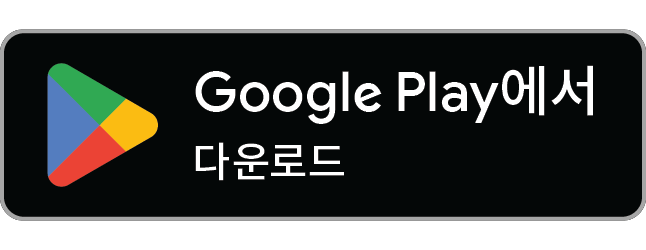
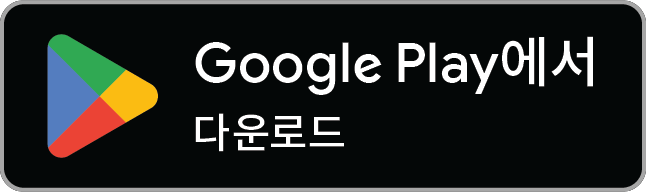
다운로드 배지 크기 통일 — Google 배지 여백을 잘라 두 버튼을 같은 높이로
Claude-Session: https://claude.ai/code/session_017HUExyZ58Y2Jv744zBtPxR

diff --git a/ko/index.html b/ko/index.html
@@ -28,7 +28,7 @@
   <link rel="alternate" hreflang="x-default" href="https://mauvelabsinc.com/">
   <link rel="preload" href="../assets/fraunces.woff2" as="font" type="font/woff2" crossorigin>
   <link rel="stylesheet" href="https://cdn.jsdelivr.net/gh/orioncactus/pretendard@v1.3.9/dist/web/variable/pretendardvariable-dynamic-subset.min.css">
-  <link rel="stylesheet" href="../assets/site-v2.css?v=14">
+  <link rel="stylesheet" href="../assets/site-v2.css?v=15">
 </head>
 <body>
 <header class="nav wrap">
@@ -48,8 +48,8 @@
       <h1>있는 그대로의 마음을 <em>살며시</em> 담는 작은 일기.</h1>
       <p class="lede">몽글이를 눌러 기분을 고르면 끝이에요. 쓰고 싶은 날엔 짧은 글이나 사진을 더해 보세요. 광고도, 부담도 없어요.</p>
       <div class="badges">
-        <a href="https://apps.apple.com/app/id6814691795" aria-label="App Store에서 다운로드"><img src="../img/ko/badge-app-store.svg" alt="App Store에서 다운로드" height="48"></a>
-        <a href="https://play.google.com/store/apps/details?id=com.mauvelabs.maeumlog" aria-label="Google Play에서 다운로드하기" class="gp"><img src="../img/ko/badge-google-play.png" alt="Google Play에서 다운로드하기" height="70"></a>
+        <a href="https://apps.apple.com/app/id6814691795" aria-label="App Store에서 다운로드"><img src="../img/ko/badge-app-store.svg" alt="App Store에서 다운로드" height="50"></a>
+        <a href="https://play.google.com/store/apps/details?id=com.mauvelabs.maeumlog" aria-label="Google Play에서 다운로드하기" class="gp"><img src="../img/ko/badge-google-play.png" alt="Google Play에서 다운로드하기" height="50"></a>
       </div>
       <p class="fine">무료로 시작 · 아이폰과 안드로이드</p>
     </div>
@@ -144,8 +144,8 @@
     <span class="mongle cta-mongle" data-anim="mongle-normal-idle"><img src="../img/mongle-normal.webp" alt="" width="180"></span>
     <h2>오늘은 나에게 조금 더 다정하게.</h2>
     <div class="badges center">
-      <a href="https://apps.apple.com/app/id6814691795" aria-label="App Store에서 다운로드"><img src="../img/ko/badge-app-store.svg" alt="App Store에서 다운로드" height="48"></a>
-      <a href="https://play.google.com/store/apps/details?id=com.mauvelabs.maeumlog" aria-label="Google Play에서 다운로드하기" class="gp"><img src="../img/ko/badge-google-play.png" alt="Google Play에서 다운로드하기" height="70"></a>
+      <a href="https://apps.apple.com/app/id6814691795" aria-label="App Store에서 다운로드"><img src="../img/ko/badge-app-store.svg" alt="App Store에서 다운로드" height="50"></a>
+      <a href="https://play.google.com/store/apps/details?id=com.mauvelabs.maeumlog" aria-label="Google Play에서 다운로드하기" class="gp"><img src="../img/ko/badge-google-play.png" alt="Google Play에서 다운로드하기" height="50"></a>
     </div>
   </section>
 </main>
@@ -165,7 +165,7 @@
   </div>
 <dl class="biz"><dt>상호</dt><dd>모브랩스(Mauve Labs)</dd><dt>대표자</dt><dd>주창환</dd><dt>사업자등록번호</dt><dd>485-21-02219</dd><dt>통신판매업신고번호</dt><dd>제2026-서울금천-1495호</dd><dt>주소</dt><dd>서울특별시 금천구 범안로12길 29-20, A동 301호(독산동)</dd><dt>이메일</dt><dd>mauvelabs@mauvelabsinc.com</dd></dl><p class="legal">© 2026 모브랩스</p>
 </footer>
-<script src="../assets/scroll.js?v=14"></script>
+<script src="../assets/scroll.js?v=15"></script>
 <script src="../assets/lottie_light.min.js"></script>
 <script>
 /* 몽글이 애니메이션 — 앱과 같은 Lottie(maeumlog-rn assets/animations)를 웹용으로 줄인 것.
@@ -179,7 +179,7 @@
   document.querySelectorAll('.mongle[data-anim]').forEach(function (el, i) {
     var box = document.createElement('span'); box.className = 'mongle-anim'; el.appendChild(box);
     var a = lottie.loadAnimation({ container: box, renderer: 'svg', loop: true, autoplay: !io,
-      path: '../anim/' + el.dataset.anim + '.json?v=14', rendererSettings: { preserveAspectRatio: 'xMidYMid meet' } });
+      path: '../anim/' + el.dataset.anim + '.json?v=15', rendererSettings: { preserveAspectRatio: 'xMidYMid meet' } });
     a.addEventListener('DOMLoaded', function () {
       a.goToAndStop((i * 17) % a.totalFrames, true); /* 같은 몽글이가 똑같이 움직이지 않게 시작 프레임을 엇갈린다 */
       el.classList.add('is-anim'); el._anim = a; if (io) io.observe(el); else a.play();

diff --git a/index.html b/index.html
@@ -28,7 +28,7 @@
   <link rel="alternate" hreflang="x-default" href="https://mauvelabsinc.com/">
   <link rel="preload" href="assets/fraunces.woff2" as="font" type="font/woff2" crossorigin>
   <link rel="stylesheet" href="https://cdn.jsdelivr.net/gh/orioncactus/pretendard@v1.3.9/dist/web/variable/pretendardvariable-dynamic-subset.min.css">
-  <link rel="stylesheet" href="assets/site-v2.css?v=14">
+  <link rel="stylesheet" href="assets/site-v2.css?v=15">
 </head>
 <body>
 <header class="nav wrap">
@@ -48,8 +48,8 @@
       <h1>A soft little diary for how you <em>really</em> feel.</h1>
       <p class="lede">Tap Mongle, pick a mood, and you're done. Add a few words or a photo when you feel like it. No ads, no pressure.</p>
       <div class="badges">
-        <a href="https://apps.apple.com/app/id6814691795" aria-label="Download on the App Store"><img src="img/badge-app-store.svg" alt="Download on the App Store" height="48"></a>
-        <a href="https://play.google.com/store/apps/details?id=com.mauvelabs.maeumlog" aria-label="Get it on Google Play" class="gp"><img src="img/badge-google-play.png" alt="Get it on Google Play" height="70"></a>
+        <a href="https://apps.apple.com/app/id6814691795" aria-label="Download on the App Store"><img src="img/badge-app-store.svg" alt="Download on the App Store" height="50"></a>
+        <a href="https://play.google.com/store/apps/details?id=com.mauvelabs.maeumlog" aria-label="Get it on Google Play" class="gp"><img src="img/badge-google-play.png" alt="Get it on Google Play" height="50"></a>
       </div>
       <p class="fine">Free to start · iPhone and Android</p>
     </div>
@@ -144,8 +144,8 @@
     <span class="mongle cta-mongle" data-anim="mongle-normal-idle"><img src="img/mongle-normal.webp" alt="" width="180"></span>
     <h2>Be gentle with yourself today.</h2>
     <div class="badges center">
-      <a href="https://apps.apple.com/app/id6814691795" aria-label="Download on the App Store"><img src="img/badge-app-store.svg" alt="Download on the App Store" height="48"></a>
-      <a href="https://play.google.com/store/apps/details?id=com.mauvelabs.maeumlog" aria-label="Get it on Google Play" class="gp"><img src="img/badge-google-play.png" alt="Get it on Google Play" height="70"></a>
+      <a href="https://apps.apple.com/app/id6814691795" aria-label="Download on the App Store"><img src="img/badge-app-store.svg" alt="Download on the App Store" height="50"></a>
+      <a href="https://play.google.com/store/apps/details?id=com.mauvelabs.maeumlog" aria-label="Get it on Google Play" class="gp"><img src="img/badge-google-play.png" alt="Get it on Google Play" height="50"></a>
     </div>
   </section>
 </main>
@@ -165,7 +165,7 @@
   </div>
 <p class="legal">© 2026 Mauve Labs · mauvelabs@mauvelabsinc.com · Seoul, Republic of Korea</p>
 </footer>
-<script src="assets/scroll.js?v=14"></script>
+<script src="assets/scroll.js?v=15"></script>
 <script src="assets/lottie_light.min.js"></script>
 <script>
 /* 몽글이 애니메이션 — 앱과 같은 Lottie(maeumlog-rn assets/animations)를 웹용으로 줄인 것.
@@ -179,7 +179,7 @@
   document.querySelectorAll('.mongle[data-anim]').forEach(function (el, i) {
     var box = document.createElement('span'); box.className = 'mongle-anim'; el.appendChild(box);
     var a = lottie.loadAnimation({ container: box, renderer: 'svg', loop: true, autoplay: !io,
-      path: 'anim/' + el.dataset.anim + '.json?v=14', rendererSettings: { preserveAspectRatio: 'xMidYMid meet' } });
+      path: 'anim/' + el.dataset.anim + '.json?v=15', rendererSettings: { preserveAspectRatio: 'xMidYMid meet' } });
     a.addEventListener('DOMLoaded', function () {
       a.goToAndStop((i * 17) % a.totalFrames, true); /* 같은 몽글이가 똑같이 움직이지 않게 시작 프레임을 엇갈린다 */
       el.classList.add('is-anim'); el._anim = a; if (io) io.observe(el); else a.play();

diff --git a/templates/page.html b/templates/page.html
@@ -46,8 +46,8 @@
       <h1>{{hero_title}}</h1>
       <p class="lede">{{hero_lede}}</p>
       <div class="badges">
-        <a href="https://apps.apple.com/app/id6814691795" aria-label="{{badge_apple_alt}}"><img src="{{b}}{{badge_dir}}badge-app-store.svg" alt="{{badge_apple_alt}}" height="48"></a>
-        <a href="https://play.google.com/store/apps/details?id=com.mauvelabs.maeumlog" aria-label="{{badge_google_alt}}" class="gp"><img src="{{b}}{{badge_dir}}badge-google-play.png" alt="{{badge_google_alt}}" height="70"></a>
+        <a href="https://apps.apple.com/app/id6814691795" aria-label="{{badge_apple_alt}}"><img src="{{b}}{{badge_dir}}badge-app-store.svg" alt="{{badge_apple_alt}}" height="50"></a>
+        <a href="https://play.google.com/store/apps/details?id=com.mauvelabs.maeumlog" aria-label="{{badge_google_alt}}" class="gp"><img src="{{b}}{{badge_dir}}badge-google-play.png" alt="{{badge_google_alt}}" height="50"></a>
       </div>
       <p class="fine">{{hero_fine}}</p>
     </div>
@@ -142,8 +142,8 @@
     <span class="mongle cta-mongle" data-anim="mongle-normal-idle"><img src="{{b}}img/mongle-normal.webp" alt="" width="180"></span>
     <h2>{{cta_title}}</h2>
     <div class="badges center">
-      <a href="https://apps.apple.com/app/id6814691795" aria-label="{{badge_apple_alt}}"><img src="{{b}}{{badge_dir}}badge-app-store.svg" alt="{{badge_apple_alt}}" height="48"></a>
-      <a href="https://play.google.com/store/apps/details?id=com.mauvelabs.maeumlog" aria-label="{{badge_google_alt}}" class="gp"><img src="{{b}}{{badge_dir}}badge-google-play.png" alt="{{badge_google_alt}}" height="70"></a>
+      <a href="https://apps.apple.com/app/id6814691795" aria-label="{{badge_apple_alt}}"><img src="{{b}}{{badge_dir}}badge-app-store.svg" alt="{{badge_apple_alt}}" height="50"></a>
+      <a href="https://play.google.com/store/apps/details?id=com.mauvelabs.maeumlog" aria-label="{{badge_google_alt}}" class="gp"><img src="{{b}}{{badge_dir}}badge-google-play.png" alt="{{badge_google_alt}}" height="50"></a>
     </div>
   </section>
 </main>

diff --git a/assets/site-v2.css b/assets/site-v2.css
@@ -69,12 +69,12 @@ h3 { font-size: 22px; margin: 18px 0 6px; }
 .sub { font-size: 18px; color: var(--ink-soft); max-width: 620px; margin: 0 0 36px; }
 .fine { font-size: 14px; color: var(--ink-faint); margin: 8px 0 0; }
 
-/* 공식 배지: Apple 높이 48 · Google은 그림 안에 여백이 있어 70으로 맞추면 눈높이가 같다(Google 배지 가이드) */
-.badges { display: flex; align-items: center; flex-wrap: wrap; gap: 4px 6px; }
+/* 공식 배지: Google 배지는 그림 속 여백을 잘라 두었다 → 두 배지를 같은 높이로 둔다(버튼 크기가 같아 보이게) */
+.badges { display: flex; align-items: center; flex-wrap: wrap; gap: 10px; }
 .badges.center { justify-content: center; }
 .badges a { display: block; }
 .badges img { width: auto; }
-.badges .gp { margin: -11px 0; }
+.badges img { height: var(--badge-h, 50px); }
 
 /* 첫 화면 */
 .hero { display: grid; grid-template-columns: 1.05fr 1fr; gap: 40px; align-items: center; padding-top: 40px; padding-bottom: 80px; }
@@ -257,8 +257,5 @@ html:lang(ko) body { word-break: keep-all; }
 
 /* 좁은 휴대폰: 배지 두 개를 한 줄에(한국어 배지가 더 길다) */
 @media (max-width: 420px) {
-  .badges { flex-wrap: nowrap; gap: 4px; }
-  .badges a:first-child img { height: 40px; }
-  .badges .gp img { height: 58px; }
-  .badges .gp { margin: -9px 0; }
+  .badges { flex-wrap: nowrap; gap: 8px; --badge-h: 42px; }
 }

diff --git a/build.py b/build.py
@@ -18,7 +18,7 @@ import sys
 ROOT = os.path.dirname(os.path.abspath(__file__))
 SITE = 'https://mauvelabsinc.com/'
 # CSS·JS·애니메이션을 고치면 올린다 — 브라우저가 옛 파일을 붙들지 않게
-VERSION = '14'
+VERSION = '15'
 
 
 def load_locales():
